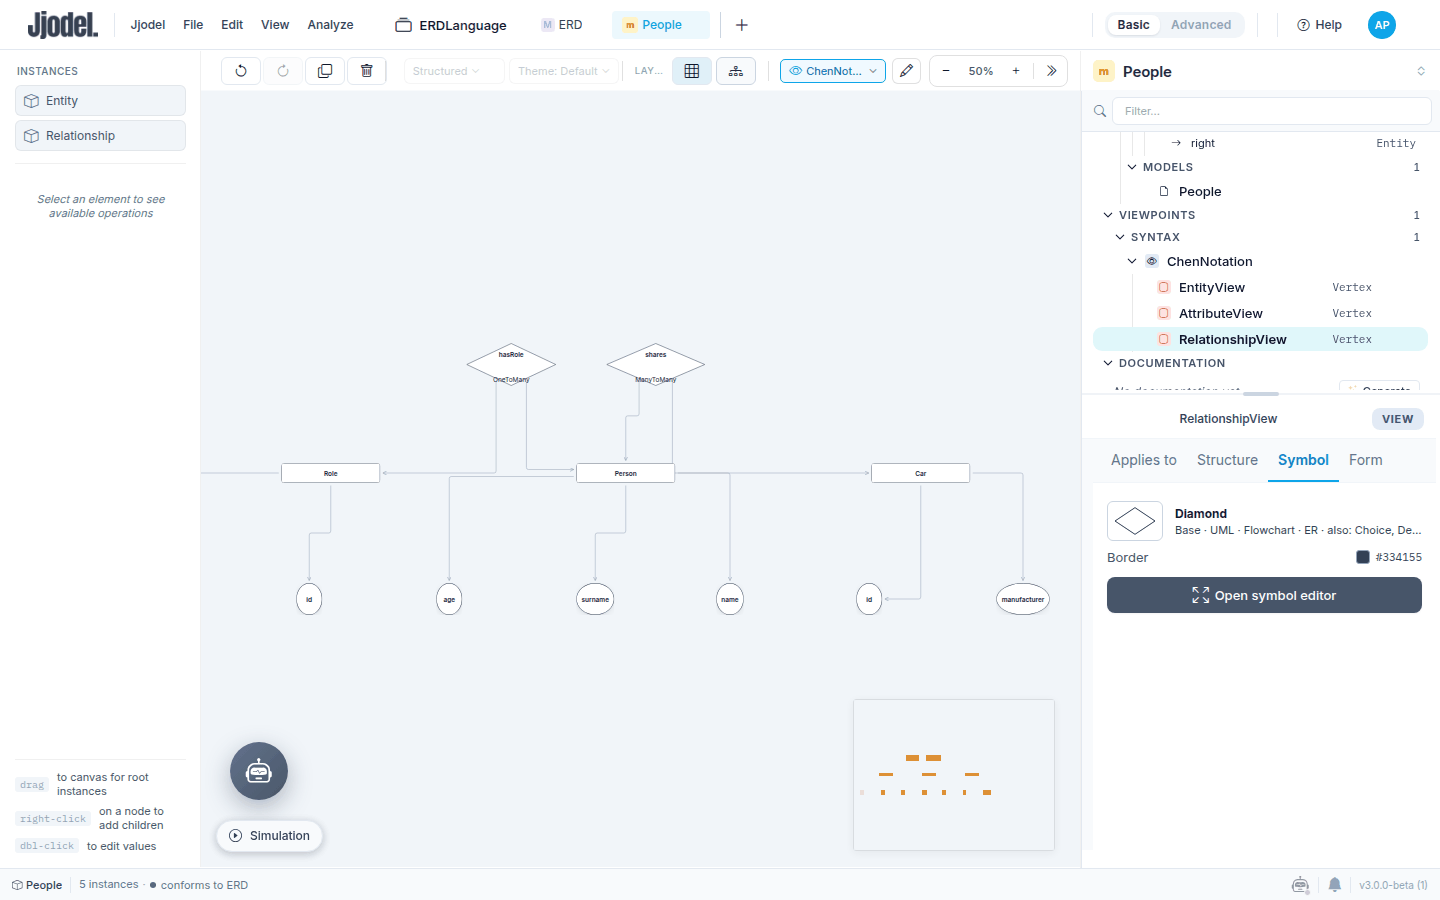
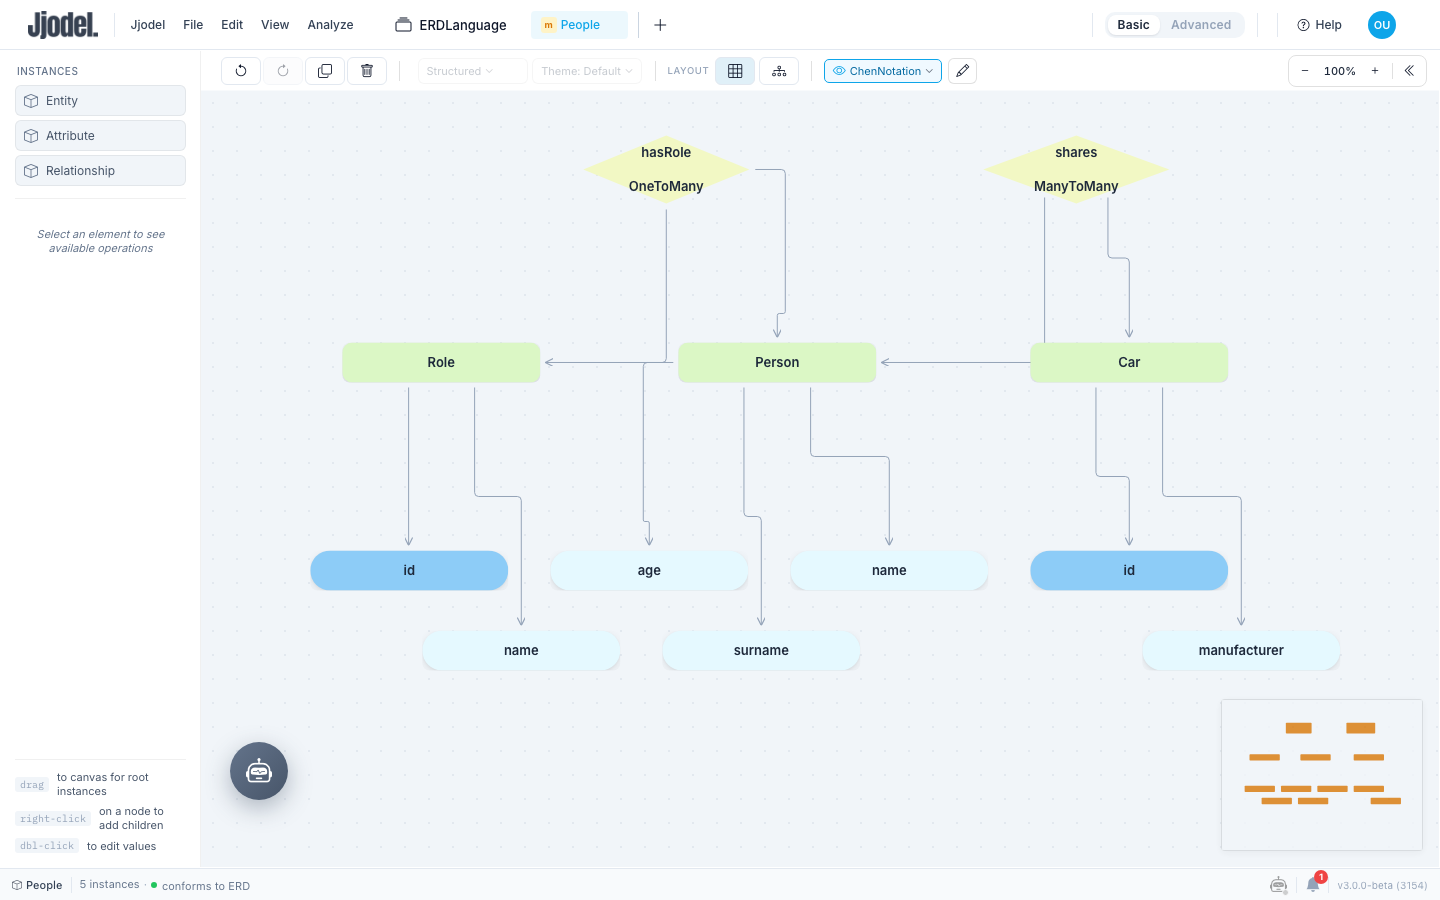
docs: restyle the Chen notation in tutorial 2 (rounded, stadium and diamond with fills)
The ChenNotation viewpoint now uses Base presets with fills and no border: green rounded
entities, pale blue stadium attributes (deeper blue for keys), yellow diamonds with both
labels centered. Steps 4 to 8 describe the new choices, the four affected screenshots are
retaken, and tutorials 3 and 4 use the new vocabulary. Adds shots-tutorial-02.mjs, which
takes the screenshots against a local offline Jjodel seeded from work/storage.json.

Claude-Session: https://claude.ai/code/session_01DUdzDkhFFTrQwHMF6EEfGa

diff --git a/src/content/docs/tutorials/02-chen-notation.md b/src/content/docs/tutorials/02-chen-notation.md
@@ -1,18 +1,18 @@
 ---
 title: "Concrete Syntax: Chen Diagrams"
-description: "Give the ER metamodel a graphical notation with the View Designer: entities as rectangles, attributes as ovals, relationships as diamonds, keys highlighted, no code."
+description: "Give the ER metamodel a graphical notation with the View Designer: entities as rounded boxes, attributes as pills, relationships as diamonds, keys highlighted, no code."
 sidebar:
   order: 2
   label: "2. Chen Diagrams"
 ---
 
-In this tutorial you give the ER language from [the first tutorial](../01-er-metamodel) its classic notation: entities as rectangles, attributes as ovals connected to their entity, relationships as diamonds that show their cardinality, key attributes highlighted. You build it as a viewpoint with three views, one per metaclass, and you describe each view in the View Designer: which metaclass it applies to, which symbol draws it, which labels it shows. Jjodel renders the description; there is no template to write and no stylesheet to maintain.
+In this tutorial you give the ER language from [the first tutorial](../01-er-metamodel) a Chen-style notation: entities as rounded boxes, attributes as pills connected to their entity, relationships as diamonds that show their cardinality, key attributes filled in a deeper colour. Chen's textbook drawing uses plain rectangles, ovals and diamonds; the version here keeps the role of each shape and uses filled, borderless forms that read better on screen. You build it as a viewpoint with three views, one per metaclass, and you describe each view in the View Designer: which metaclass it applies to, which symbol draws it, which labels it shows. Jjodel renders the description; there is no template to write and no stylesheet to maintain.
 
 <video controls preload="metadata" width="100%" poster="/videos/tutorial-02-chen-notation-poster.jpg" src="/videos/tutorial-02-chen-notation.mp4">
   Your browser does not support the video element. <a href="/videos/tutorial-02-chen-notation.mp4">Download the video</a>.
 </video>
 
-The video (under three minutes) shows Steps 1 to 7 at speed. Use it as a preview, then follow the text; Step 8 is only in the text.
+The video (under three minutes) shows Steps 1 to 7 at speed, recorded with the Data (ER) presets rather than the shapes and fills chosen below; the steps are the same. Use it as a preview, then follow the text; Step 8 is only in the text.
 
 ![The People model rendered with the ChenNotation viewpoint](./images/tutorial-02-chen-diagram.png)
 
@@ -24,7 +24,7 @@ The video (under three minutes) shows Steps 1 to 7 at speed. Use it as a preview
 
 The metamodel says what an ER model contains. A viewpoint says how it looks. A **syntax viewpoint** is exclusive: when it is active, its views decide the rendering of every instance they match, and metaclasses without a view fall back to the Default rendering. Building a second notation for the same models means adding a second viewpoint, not touching the metamodel or the models.
 
-Each **view** is a record with three parts you will fill in turn. *Applies to*: the metaclass whose instances the view draws. *Symbol*: the shape, taken from a catalogue of presets that already includes a Data (ER) family, with its fill, border and text labels. *Structure*: what the node shows besides the symbol, in particular the compartment that lists attribute values. The [View Designer](../../user-guide/view-designer) page documents every field; this tutorial uses the few that Chen notation needs.
+Each **view** is a record with three parts you will fill in turn. *Applies to*: the metaclass whose instances the view draws. *Symbol*: the shape, taken from a catalogue of presets, with its fill, border and text labels. *Structure*: what the node shows besides the symbol, in particular the compartment that lists attribute values. The [View Designer](../../user-guide/view-designer) page documents every field; this tutorial uses the few that Chen notation needs.
 
 ## Step 1: Create the viewpoint
 
@@ -55,50 +55,51 @@ Do this before you change the symbol. Some symbols, the ellipse and the diamond 
 
 ## Step 4: Choose the symbol and its label
 
-1. Open the **Symbol** tab and click **Open symbol editor**. The left column is a catalogue of presets grouped by family: Base, Process, Data (ER), Flowchart. Expand **Data (ER)** and click **Entity**. The preview updates.
-2. Switch to the **Text** tab of the editor. Under **Labels**, set **Label #1** to **Position: Center** and **Source: Intrinsic property**, then pick `name` in the second dropdown.
-3. Press Esc to close the editor.
+1. Open the **Symbol** tab and click **Open symbol editor**. The left column is a catalogue of presets grouped by family: Base, Process, Data (ER), Flowchart. In **Base**, click **Rounded rectangle**. The preview updates.
+2. Stay in the **Appearance** tab. Under **Fill** type `#dbf7c5`; under **Border** set **Width** to `0`. The moment you change a value the header reads *Custom symbol*: the preset was a starting point, the record is yours.
+3. Switch to the **Text** tab. Under **Labels**, set **Label #1** to **Position: Center** and **Source: Intrinsic property**, then pick `name` in the second dropdown.
+4. Press Esc to close the editor.
 
-The Data (ER) family has seven presets: Entity, Weak entity, Relationship, Identifying relationship, Attribute, Derived attribute, Multivalued attribute. The three you use here are a rectangle, a diamond and an ellipse with the border already set; the other four are there when your metamodel distinguishes weak entities or derived attributes.
+The Data (ER) family has seven presets, Entity, Weak entity, Relationship, Identifying relationship, Attribute, Derived attribute, Multivalued attribute, with the textbook black borders already set. Pick those instead of the Base shapes if you want the classic look, or when your metamodel distinguishes weak entities or derived attributes.
 
-![The symbol catalogue with the Data (ER) family expanded](./images/tutorial-02-symbol-editor-er-family.png)
+![The symbol catalogue with the Base family, Rounded rectangle selected](./images/tutorial-02-symbol-editor-base-family.png)
 
 ## Step 5: Look at the model
 
 Open the `People` model from the project page or its tab. In the toolbar, the viewpoint selector reads **Abstract syntax**: open it and choose **ChenNotation**.
 
-Three things change. Entities render as plain rectangles with their name in the middle. Attributes and relationships still show as small boxes, and the tree marks their metaclasses as **not rendered**: the viewpoint has no view for them yet, so they fall back. The palette on the left lists **Entity** under Instances and `Relationship` under **Not in this viewpoint**, because a viewpoint without a view for a metaclass gives you no way to create its instances.
+Three things change. Entities render as green rounded boxes with their name in the middle. Attributes and relationships still show as small boxes, and the tree marks their metaclasses as **not rendered**: the viewpoint has no view for them yet, so they fall back. The palette on the left lists **Entity** under Instances and `Relationship` under **Not in this viewpoint**, because a viewpoint without a view for a metaclass gives you no way to create its instances.
 
 The connections between entities and attributes are drawn without any work on your side. A reference whose source and target are both on the canvas becomes an edge, and `ownedAttributes`, `left` and `right` are references.
 
 ## Step 6: The Attribute view
 
-Back in the `ERD` tab, add a second view to `ChenNotation` and name it `AttributeView`. Repeat the sequence of Steps 2 to 4 with two differences: **Applicable to** is `ERD.Attribute`, and the preset is **Attribute** in the Data (ER) family, an ellipse. Keep the order: enable IR authoring, remove the compartment in Structure, then pick the symbol and set the centered `name` label.
+Back in the `ERD` tab, add a second view to `ChenNotation` and name it `AttributeView`. Repeat the sequence of Steps 2 to 4 with three differences: **Applicable to** is `ERD.Attribute`, the preset is **Stadium** in the Base family, and the fill is `#e5f9ff`, again with border width `0`. Keep the order: enable IR authoring, remove the compartment in Structure, then pick the symbol, set fill and border, and set the centered `name` label.
 
-Switch to the `People` tab: the attributes are now ovals hanging from their entity.
+Switch to the `People` tab: the attributes are now pale blue pills hanging from their entity.
 
 ## Step 7: The Relationship view
 
-Add a third view, `RelationshipView`, applicable to `ERD.Relationship`, kind Vertex, compartment removed, preset **Relationship** (a diamond), Label #1 centered on `name`. Then give the diamond a second label for the cardinality:
+Add a third view, `RelationshipView`, applicable to `ERD.Relationship`, kind Vertex, compartment removed, preset **Diamond** in the Base family, fill `#f2f8c4`, border width `0`, Label #1 centered on `name`. Then give the diamond a second label for the cardinality:
 
 1. In the **Text** tab of the symbol editor click **Add label**.
-2. Set **Label #2** to **Position: Bottom** and **Source: Feature path**, and choose `cardinality : Cardinality` in the feature dropdown.
+2. Set **Label #2** to **Position: Center** and **Source: Feature path**, and choose `cardinality : Cardinality` in the feature dropdown. Two centered labels stack: the name above, the cardinality under it.
 3. Close the editor and press **Ctrl+S**.
 
-In `People`, `hasRole` and `shares` are diamonds with the relationship name inside and `OneToMany` or `ManyToMany` below, each connected to its two entities. If the canvas is crowded, **Auto layout** in the toolbar rearranges it. The Relationship metaclass is back in the palette.
+In `People`, `hasRole` and `shares` are yellow diamonds with the relationship name and `OneToMany` or `ManyToMany` inside, each connected to its two entities. If the canvas is crowded, **Auto layout** in the toolbar rearranges it. The Relationship metaclass is back in the palette.
 
-![The two labels of the Relationship view: name centered, cardinality below](./images/tutorial-02-relationship-labels.png)
+![The two labels of the Relationship view, both centered](./images/tutorial-02-relationship-labels.png)
 
 ## Step 8: Highlight key attributes
 
-Chen notation underlines key attributes. The metamodel has no notion of key yet, and the text styles of the symbol editor offer font, size, weight, italics and colour but no underline, so you will mark keys with a fill instead. This step needs **Advanced** mode, where conditional fields are edited.
+Chen notation underlines key attributes. The metamodel has no notion of key yet, and the text styles of the symbol editor offer font, size, weight, italics and colour but no underline, so you will mark keys with a deeper fill instead. This step needs **Advanced** mode, where conditional fields are edited.
 
 1. In the `ERD` metamodel, drop an **Attribute** on the `Attribute` class and name it `isKey`, type `EBoolean`. Every Attribute instance gains the feature at once, unset.
 2. In `People`, select the `id` attribute of `Role`. In the properties panel the `isKey` slot reads **No values**: click its **+** and switch the toggle to **true**. Do the same for the `id` of `Car`.
-3. Switch the top bar to **Advanced**. Select `AttributeView`, open the symbol editor, and in the **Appearance** tab set **Fill** to **Conditional**. Fill in the rule: **When** `= equals`; **Left**: `Path`, feature `isKey : EBoolean`; **Right**: `Value`, `Boolean`, toggle on; **Then**: `#e0f2fe`.
+3. Switch the top bar to **Advanced**. Select `AttributeView`, open the symbol editor, and in the **Appearance** tab set **Fill** to **Conditional**. Fill in the rule: **When** `= equals`; **Left**: `Path`, feature `isKey : EBoolean`; **Right**: `Value`, `Boolean`, toggle on; **Then**: `#8dccf7`; **Else** keeps the `#e5f9ff` of Step 6.
 4. Close the editor and save.
 
-The two `id` ovals are filled light blue; the other attributes keep the white fill. Toggle `isKey` on any attribute and its oval changes at once: the condition is evaluated on the instance, every time it renders.
+The two `id` pills turn a deeper blue; the other attributes keep the pale fill. Toggle `isKey` on any attribute and its pill changes at once: the condition is evaluated on the instance, every time it renders.
 
 ![The conditional fill rule on the Attribute view](./images/tutorial-02-fill-conditional.png)
 

diff --git a/src/content/docs/tutorials/03-data-manager.md b/src/content/docs/tutorials/03-data-manager.md
@@ -80,7 +80,7 @@ The table shows the references as pills; the filter chips above it (`All`, `OneT
 
 Go back to the **Attribute** table. Tick the checkboxes of the four key attributes: the three `id` rows and `code`. The form area turns into a multi-edit form headed `4 attributes selected`. The `type` field reads **Mixed**, because the selection holds both `Integer` and `String` (in the current build the values behind it show as raw identifiers; the label is what matters); `isKey` shows how many are on and how many off, with an **on / off** switch. Identity is not there: the form says `Name is hidden: identity is never bulk-edited`.
 
-Set `isKey` to **on** and click **Apply to 4**. The four rows get a tick in the `isKey` column (`Role.id` and `Car.id` already had it from tutorial 2), and if you open the canvas with `ChenNotation` active the key ovals are filled, as [tutorial 2](../02-chen-notation) set up.
+Set `isKey` to **on** and click **Apply to 4**. The four rows get a tick in the `isKey` column (`Role.id` and `Car.id` already had it from tutorial 2), and if you open the canvas with `ChenNotation` active the key pills take the deeper blue, as [tutorial 2](../02-chen-notation) set up.
 
 ![The multi-edit form for four attributes](./images/tutorial-03-multi-edit.png)
 
@@ -94,7 +94,7 @@ Click **Cancel**. The point of the dialog is that the Data Manager knows the mod
 
 ## Step 8: Back to the canvas
 
-Press **Ctrl+S**, then switch to the `People` tab. With `ChenNotation` active and **Auto layout**, the diagram now shows six rectangles, fifteen ovals and five diamonds, laid out in one wide row; zoom out or pan to see it all. Nothing you did in the table needed the canvas, and everything you did is there.
+Press **Ctrl+S**, then switch to the `People` tab. With `ChenNotation` active and **Auto layout**, the diagram now shows six boxes, fifteen pills and five diamonds, laid out in one wide row; zoom out or pan to see it all. Nothing you did in the table needed the canvas, and everything you did is there.
 
 ![Part of the grown model in Chen notation: the three new relationships above Person, Department and Project](./images/tutorial-03-chen-grown.png)
 

diff --git a/src/content/docs/tutorials/04-jjodie.md b/src/content/docs/tutorials/04-jjodie.md
@@ -58,7 +58,7 @@ Two habits make this reliable: read the script before running it, and when somet
 
 ## Step 4: Explain an element of the Chen diagram
 
-Open the `People` model with `ChenNotation` active. Right-click the `Person` rectangle: the context menu ends with **Explain this**, after the editing entries and **Edit view · EntityView**. Click it.
+Open the `People` model with `ChenNotation` active. Right-click the `Person` box: the context menu ends with **Explain this**, after the editing entries and **Edit view · EntityView**. Click it.
 
 A window titled `Explaining: Person`, tagged **OBJECT**, streams a short text: `Person` is an instance of `Entity`, it owns `name`, `surname` and `age`, and other elements can reference it. The text is generated from the element's type, features and values, for someone learning MDE. It is not stored: close the window and it is gone.
 
